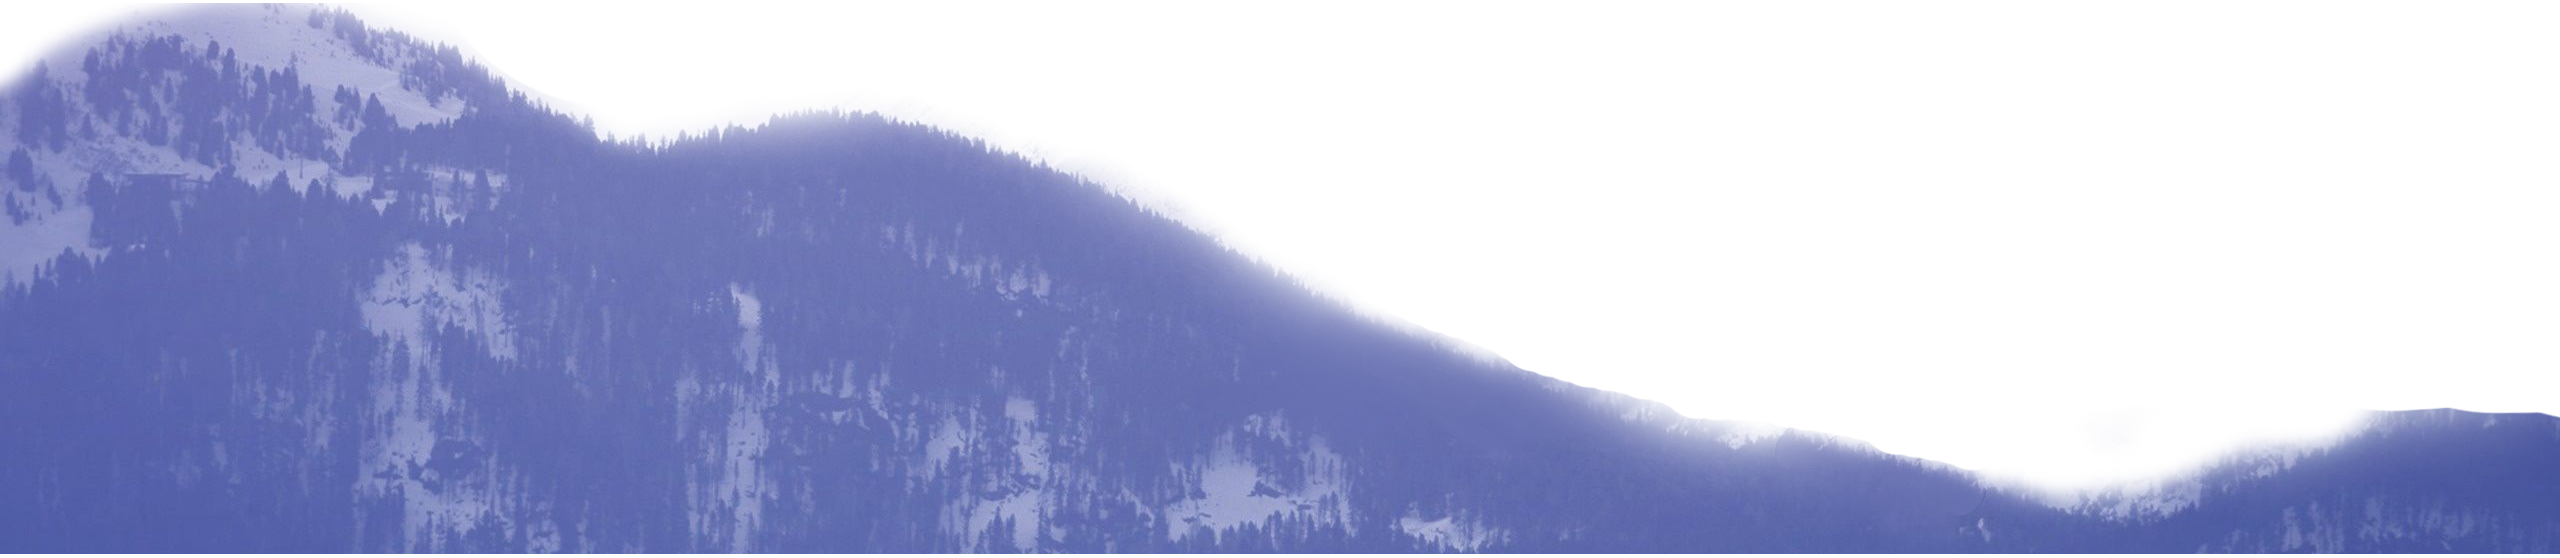
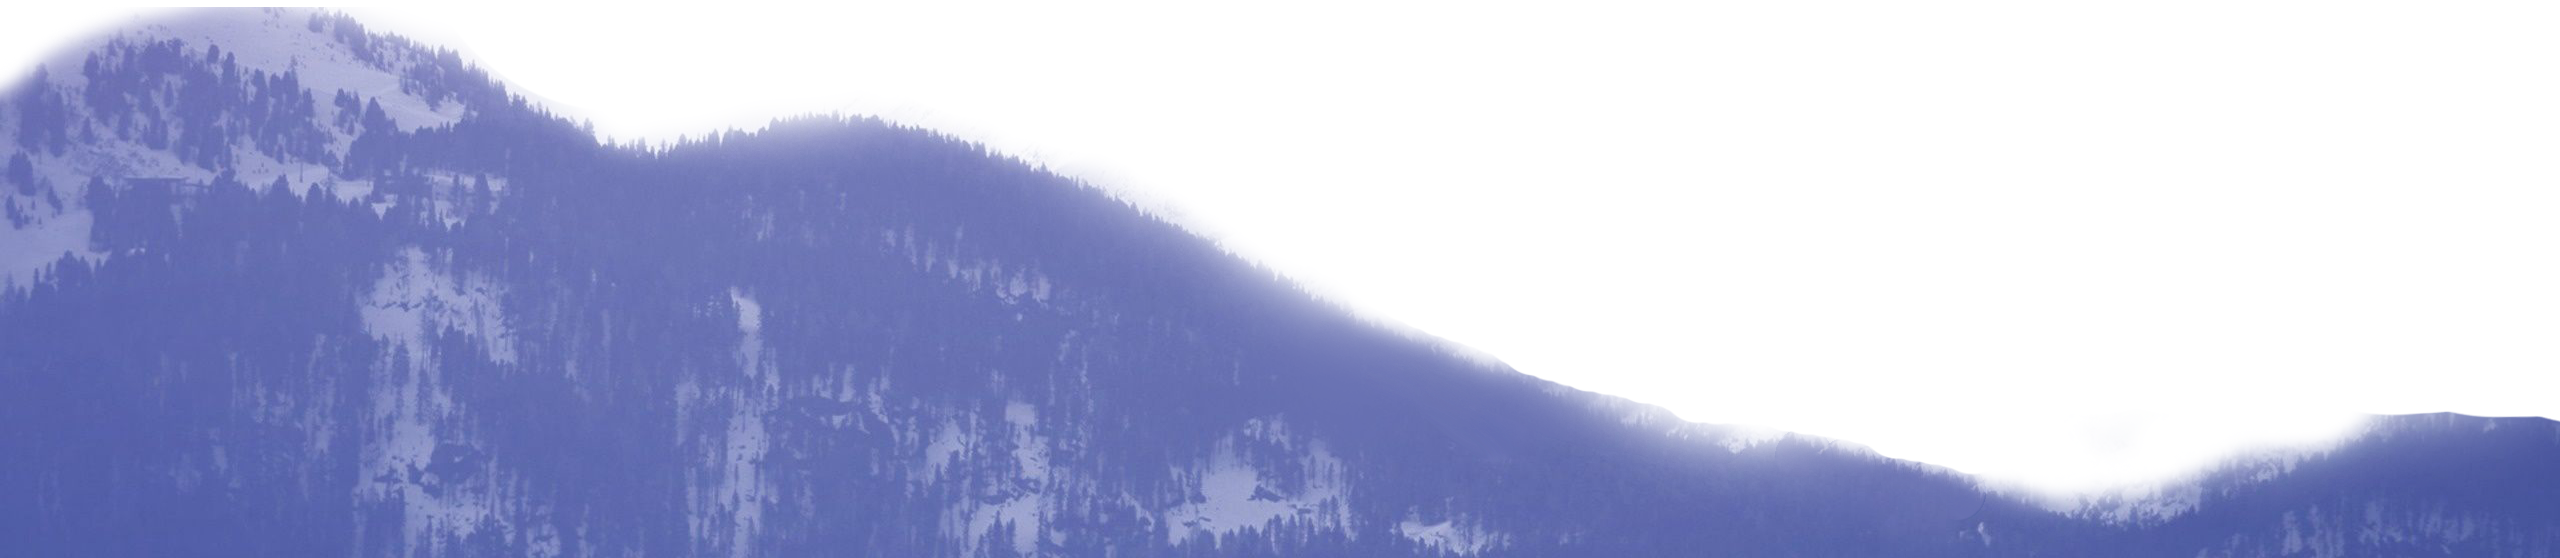
Image compression

diff --git a/assets/css/index.css b/assets/css/index.css
@@ -72,9 +72,11 @@ body, .wrap {
   opacity: 0.2;
 }
 .back__slide:nth-child(2):before {
-  background-image: url("/assets/img/index/mount.png"); /*BK UPPER WHITE*/
+  background-image: url("/assets/img/index/mount.jpg"); /*BK UPPER WHITE*/
   opacity: 0.3;
-
+  background-repeat: no-repeat;
+  background-size: 101% auto;
+  background-position: right calc(50% - 14rem);
 }
 .back__slide:nth-child(2) .back-front-image {
   position: absolute;
@@ -331,7 +333,7 @@ body, .wrap {
   left: 0;
   width: 100%;
   height: 100%;
-  background-image: url("/assets/img/index/mount.png"); /*WHITE*/
+  background-image: url("/assets/img/index/mount.jpg"); /*WHITE*/
   background-size: 101% auto;
   background-position: center 85%;
   background-repeat: no-repeat;

diff --git a/assets/js/index.js b/assets/js/index.js
@@ -27,12 +27,11 @@ const goToSlide = (slideElements, index) => {
 };
 
 var slide = 1;
-$('.wrap').on('click', () => {
-    goToSlide(slideElements, slide + 1)
+setInterval( () => {
+    goToSlide(slideElements, slide + 1);
     slide += 1;
     slide %= 2;
-});
-
+}, 10000);
 
 // let amount = 0;
 // let slide = 0;
